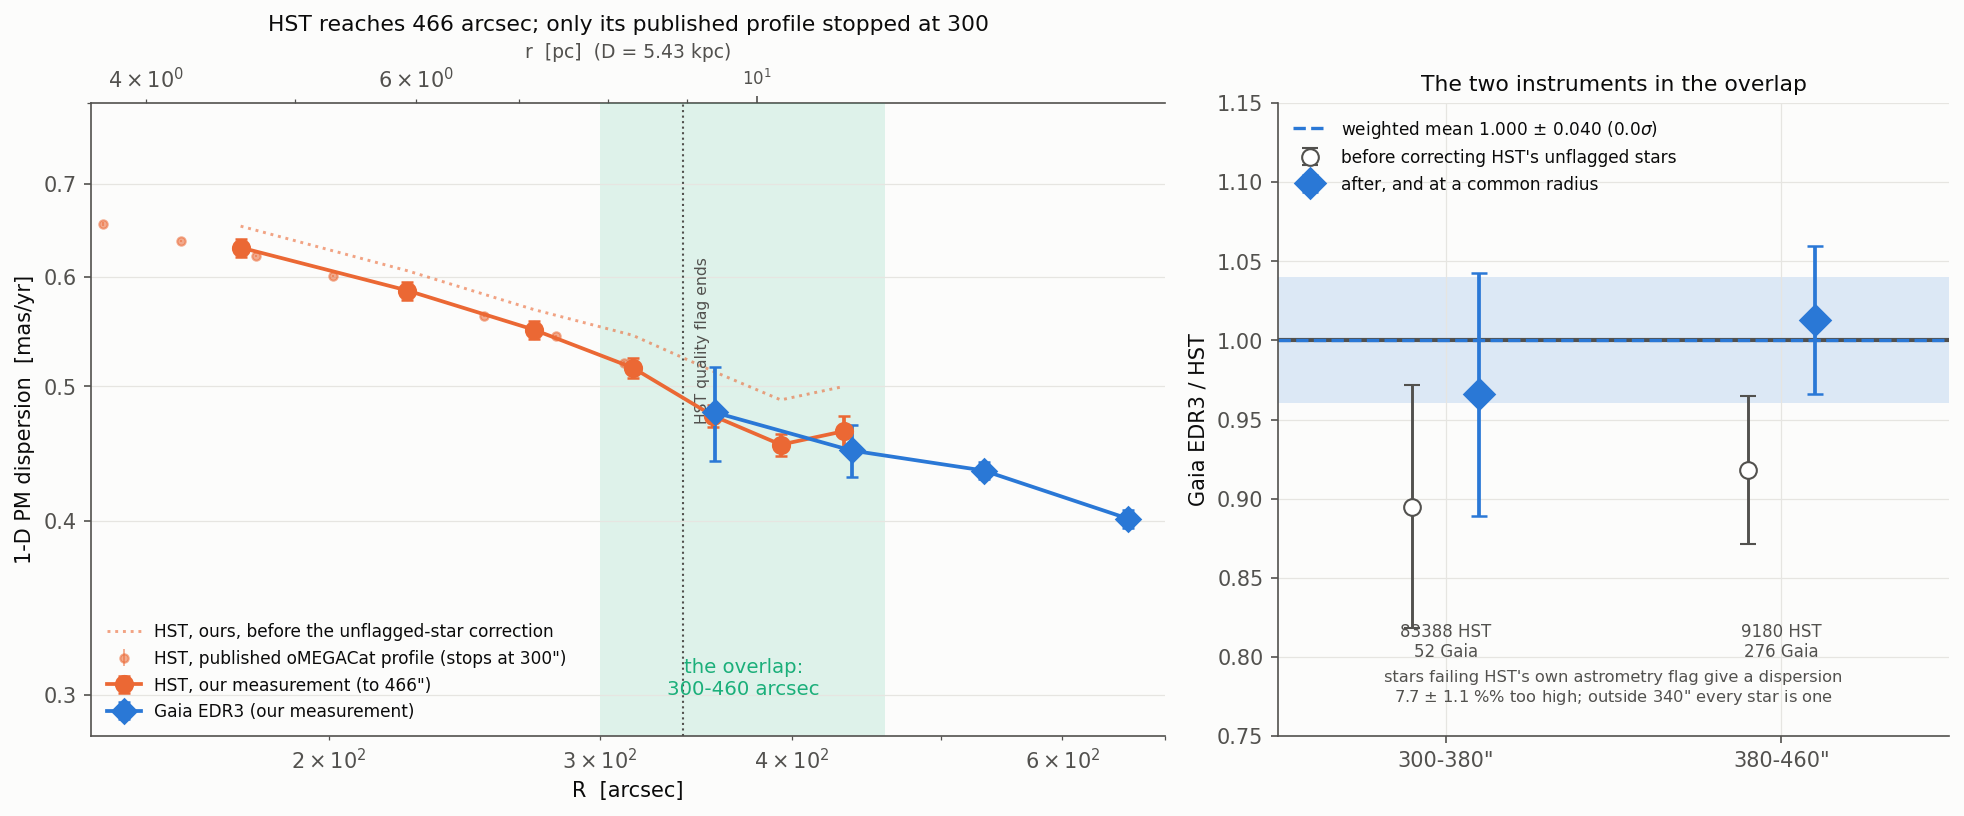
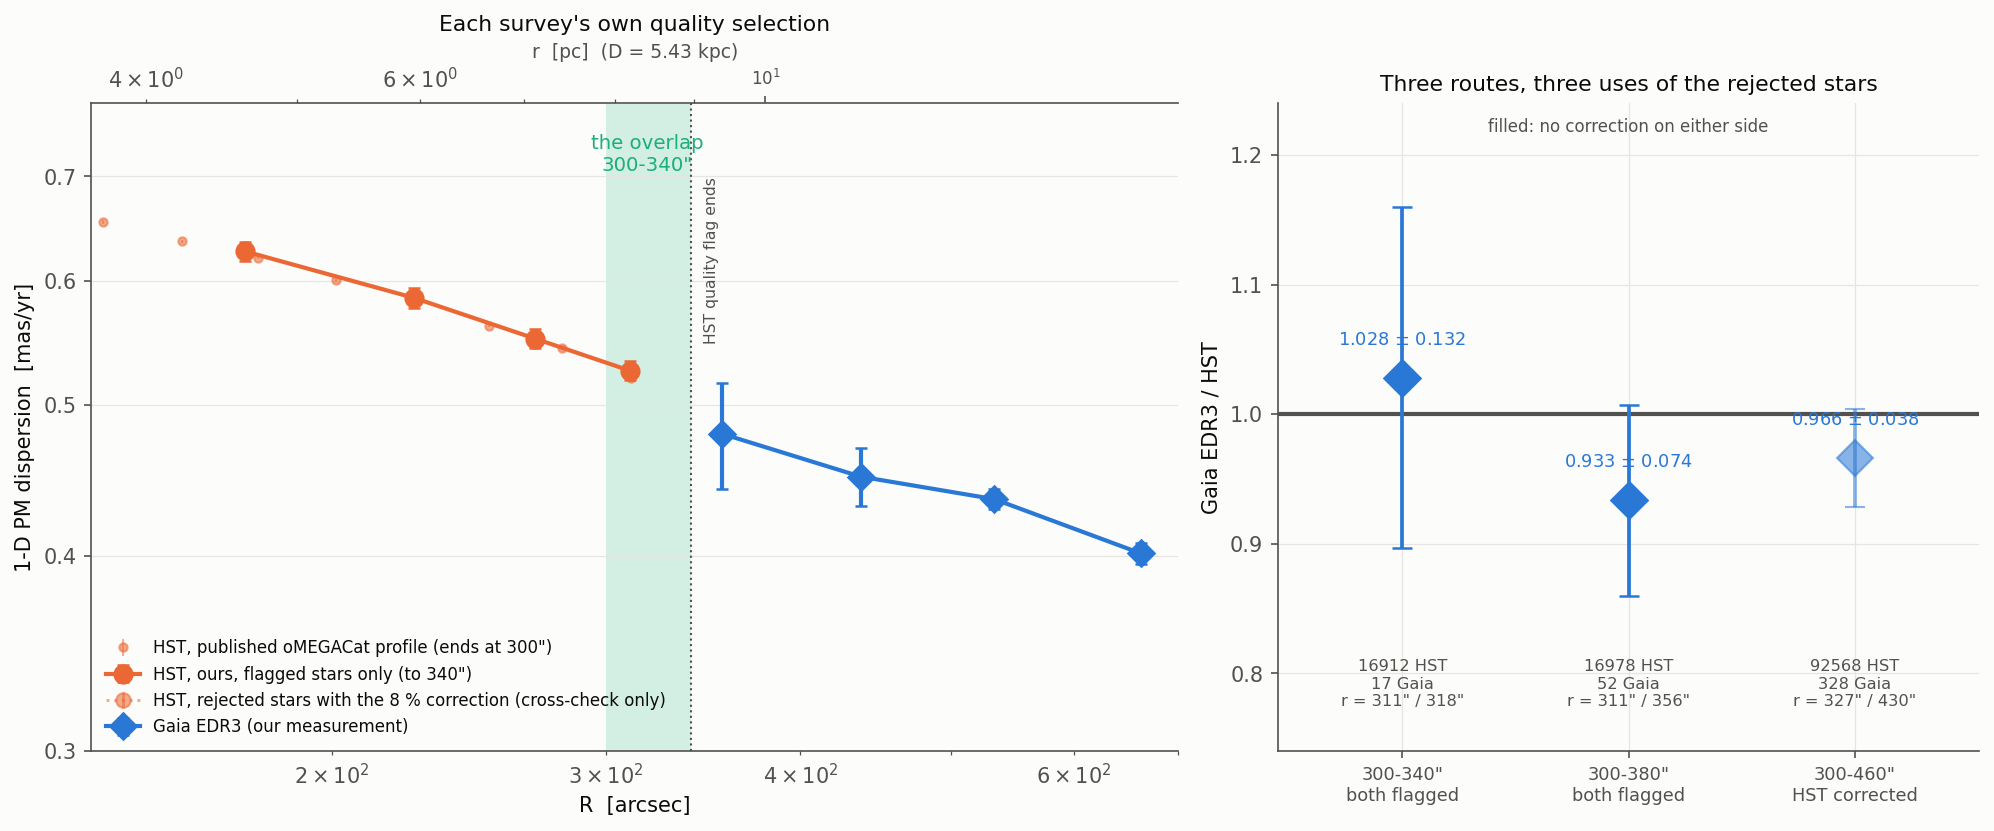
HST profile defaults to flagged stars only; drop the unflagged correction
If a star's astrometry is not trusted, leave it out rather than model it. Inside
340 arcsec there are 16912 to 150092 flagged stars per annulus, so nothing is
gained by adding the rest.

The fraction was never part of the dispersion. It was a post-fit rescaling by
1 + f*(1.077-1), with f the unflagged share of a bin, and it only did work in
bins straddling 340 arcsec where the flag runs out mid-bin. Those bins existed
only because the HST annuli had been matched to Gaia's edges rather than to the
flag's boundary. The goal behind it, reaching 460 arcsec to meet Gaia, was
unnecessary: Gaia starts at 300, so 300-340 is already an overlap on flagged
stars alone.

hst_profile now defaults to require_flag=True, correct_unflagged=False. The
corrected extension to 466 arcsec remains available and is drawn faintly in the
figure as a cross-check, never as a measurement.

Three routes agree: 1.028 +- 0.132 (300-340, both flagged), 0.933 +- 0.074
(300-380, both flagged), 0.966 +- 0.038 (300-460, HST corrected).

8 tests, one pinning the default so the correction cannot creep back.

diff --git a/src/ocen_dm/plotting/constraints.py b/src/ocen_dm/plotting/constraints.py
@@ -33,7 +33,7 @@ from . import style
 from .style import add_arcsec_axis, add_pc_axis
 
 __all__ = ["plot_constraint_map", "plot_outer_tracer_audit", "plot_contamination_model", "plot_annulus_fits",
-           "plot_method_comparison", "plot_residual_significance", "plot_dataset_step", "plot_offset_explained", "plot_datasets_unscaled", "plot_hst_gaia_star_by_star", "hst_gaia_excess_table", "hst_gaia_overlap_table", "plot_pm_datasets", "plot_periphery", "plot_periphery_density", "plot_extended_profile", "plot_master_datasets", "plot_hst_gaia_overlap", "hst_gaia_overlap_profile",
+           "plot_method_comparison", "plot_residual_significance", "plot_dataset_step", "plot_offset_explained", "plot_datasets_unscaled", "plot_hst_gaia_star_by_star", "hst_gaia_excess_table", "hst_gaia_overlap_table", "plot_pm_datasets", "plot_periphery", "plot_periphery_density", "plot_extended_profile", "plot_master_datasets", "plot_hst_gaia_overlap", "hst_gaia_overlap_profile", "hst_gaia_overlap_tests",
            "fit_quality_table", "annulus_fits", "our_outer_profile", "our_mixture_profile", "OUTER_EDGES"]
 
 #: log-spaced annuli for our own outer measurement (arcsec)
@@ -1556,83 +1556,130 @@ def hst_gaia_overlap_profile(edges_arcsec=(300.0, 380.0, 460.0)) -> Table:
                                    "f_unflagged"))
 
 
+def hst_gaia_overlap_tests(distance_kpc: float = 5.43) -> Table:
+    """Three routes to the same comparison, differing in how HST's unflagged stars are used.
+
+    1. ``300-340", both flagged`` -- HST's own quality flag and Gaia's, nothing corrected.
+       The two samples land at 311 and 318 arcsec, so the radius correction is negligible.
+    2. ``300-380", both flagged`` -- triples the Gaia sample; HST still flagged-only, so its
+       effective radius stays at 311 arcsec and a 45-arcsec slope correction does part of
+       the work.
+    3. ``300-460", HST corrected`` -- uses HST's unflagged stars with the
+       ``1 + f_unflagged (k - 1)`` correction, the only route that reaches 460 arcsec.
+    """
+    from ..kinematics.hst_profile import hst_profile
+    from ..kinematics.outer_gaia import load_edr3_profile
+    from ..kinematics.outer_profile import dispersion_2d, load_members
+    from ..kinematics.vb2021_replication import published_profile
+    from ..selection.field_template import field_density_2d
+    rp, sp = published_profile(); keep = rp > 0
+    grid = np.gradient(np.log(sp[keep]), np.log(rp[keep]))
+    slope = lambda r: float(np.interp(r, rp[keep], grid))
+
+    cat = Table.read(processed_dir() / "tails" / "vasiliev2021_ocen_members.ecsv")
+    s = load_members(exact=True, distance_kpc=distance_kpc)
+    qf = np.asarray(cat["quality_flag"], int)
+    err = 0.5 * (s.err_r + s.err_t)
+    usable = ((qf & 2) > 0) & (err < 0.4 * np.interp(s.r_arcsec, rp, sp))
+    dens = field_density_2d()
+
+    def gaia(lo, hi):
+        m = usable & (s.r_arcsec >= lo) & (s.r_arcsec < hi)
+        o = dispersion_2d(s, m, dens, depth_var=0.0, field_at=s.absolute_pm)
+        return (int(m.sum()), float(np.median(s.r_arcsec[m])),
+                float(np.sqrt(0.5 * (o["sigma_r"] ** 2 + o["sigma_t"] ** 2))),
+                float(0.5 * np.hypot(o["sigma_r_err"], o["sigma_t_err"])))
+
+    rows = []
+    for label, lo, hi, flag_only in (("300-340\"\nboth flagged", 300., 340., True),
+                                     ("300-380\"\nboth flagged", 300., 380., True),
+                                     ("300-460\"\nHST corrected", 300., 460., False)):
+        h = hst_profile(edges_arcsec=(lo, hi), require_flag=flag_only,
+                        correct_unflagged=not flag_only, min_stars=50)[0]
+        ng, rg, sg, eg = gaia(lo, hi)
+        mid = float(np.sqrt(lo * hi)); sl = slope(mid)
+        hc = float(h["sigma_pm"]) * (mid / float(h["r_median"])) ** sl
+        gc = sg * (mid / rg) ** sl
+        ratio = gc / hc
+        rerr = ratio * float(np.hypot(eg / sg, h["sigma_pm_err"] / h["sigma_pm"]))
+        rows.append((label, lo, hi, int(h["n_stars"]), float(h["r_median"]),
+                     float(h["sigma_pm"]), float(h["sigma_pm_err"]), ng, rg, sg, eg,
+                     ratio, rerr, bool(flag_only)))
+    return Table(rows=rows, names=("label", "r_lower", "r_upper", "n_hst", "r_hst", "sigma_hst",
+                                   "sigma_hst_err", "n_gaia", "r_gaia", "sigma_gaia",
+                                   "sigma_gaia_err", "ratio", "ratio_err", "flagged_only"))
+
+
 def plot_hst_gaia_overlap(path: Path | str = "plots/hst_gaia_overlap.png",
                           distance_kpc: float = 5.43) -> Path:
-    """The overlap between HST and Gaia EDR3, which exists once HST is measured, not read.
+    """The HST/Gaia overlap, built from each survey's own quality selection.
 
-    The published oMEGACat profile stops at 300 arcsec, but the catalogue carries proper
-    motions to 466. Measuring HST ourselves over the same annuli Gaia uses produces a genuine
-    two-bin overlap at 300-460 arcsec, where the two instruments can finally be compared on
-    the same stars' radii rather than across a gap.
+    Left: HST measured from flagged stars alone, which reaches 340 arcsec, against Gaia,
+    which starts at 300. The extension to 466 arcsec using HST's rejected stars is drawn
+    faintly as a cross-check, not as a measurement. Right: the comparison by three routes
+    that treat those rejected stars differently.
     """
     from ..kinematics.hst_profile import hst_profile
     from ..kinematics.likelihood import load_profile
     from ..kinematics.outer_gaia import load_edr3_profile
-    from ..kinematics.periphery import KMS_PER_MASYR_KPC
     from .style import dataset_label, dataset_style
     style.apply()
-    k = KMS_PER_MASYR_KPC * distance_kpc
-    fine = hst_profile(edges_arcsec=(150., 200., 250., 300., 340., 380., 420., 466.))
+    flagged = hst_profile(edges_arcsec=(150., 200., 250., 300., 340.), require_flag=True,
+                          correct_unflagged=False)
+    extended = hst_profile(edges_arcsec=(340., 380., 420., 466.), correct_unflagged=True)
     g = load_edr3_profile()
     pub = load_profile("hst_pm_combined")
-    ov = hst_gaia_overlap_profile()
+    tests = hst_gaia_overlap_tests(distance_kpc)
 
-    fig, (a1, a2) = plt.subplots(1, 2, figsize=(13.2, 5.6),
-                                 gridspec_kw={"width_ratios": [1.6, 1]})
-    a1.axvspan(300, 460, color=style.SERIES[2], alpha=0.13, lw=0)
-    a1.annotate("the overlap:\n300-460 arcsec", (372, 0.30), fontsize=9.5, ha="center",
-                color=style.SERIES[2])
+    fig, (a1, a2) = plt.subplots(1, 2, figsize=(13.4, 5.7),
+                                 gridspec_kw={"width_ratios": [1.55, 1]})
+    a1.axvspan(300, 340, color=style.SERIES[2], alpha=0.18, lw=0)
+    a1.annotate("the overlap\n300-340\"", (319, 0.745), fontsize=9.5, ha="center",
+                va="top", color=style.SERIES[2])
     a1.errorbar(pub.r, np.asarray(pub.value), yerr=np.asarray(pub.err_lo), linestyle="none",
-                lw=0.9, label="HST, published oMEGACat profile (stops at 300\")",
+                lw=0.9, label="HST, published oMEGACat profile (ends at 300\")",
                 **dataset_style("hst", size=4.0, fitted=False))
-    fine_raw = hst_profile(edges_arcsec=(150., 200., 250., 300., 340., 380., 420., 466.),
-                           correct_unflagged=False)
-    a1.plot(fine_raw["r_median"], fine_raw["sigma_pm"], ls=":", lw=1.4, color=style.SERIES[1],
-            alpha=0.6, label="HST, ours, before the unflagged-star correction")
-    a1.errorbar(fine["r_median"], fine["sigma_pm"], yerr=fine["sigma_pm_err"], linestyle="-",
-                lw=1.8, capsize=3, zorder=6, label="HST, our measurement (to 466\")",
-                **dataset_style("hst", size=8))
-    a1.errorbar(g["r_median"][:4], g["sigma_pm"][:4], yerr=g["sigma_pm_err"][:4], linestyle="-",
-                lw=1.8, capsize=3, zorder=6, label=dataset_label("gaia_edr3"),
-                **dataset_style("gaia_edr3", size=8))
+    a1.errorbar(flagged["r_median"], flagged["sigma_pm"], yerr=flagged["sigma_pm_err"],
+                linestyle="-", lw=2, capsize=3, zorder=6,
+                label="HST, ours, flagged stars only (to 340\")",
+                **dataset_style("hst", size=8.5))
+    a1.errorbar(extended["r_median"], extended["sigma_pm"], yerr=extended["sigma_pm_err"],
+                linestyle=":", lw=1.4, capsize=3,
+                label="HST, rejected stars with the 8 % correction (cross-check only)",
+                **dataset_style("hst", size=7, fitted=False))
+    a1.errorbar(g["r_median"][:4], g["sigma_pm"][:4], yerr=g["sigma_pm_err"][:4],
+                linestyle="-", lw=2, capsize=3, zorder=6, label=dataset_label("gaia_edr3"),
+                **dataset_style("gaia_edr3", size=8.5))
     a1.axvline(340, color=style.INK_SECONDARY, lw=1, ls=":")
-    a1.annotate("HST quality flag ends", (346, 0.62), rotation=90, fontsize=7.5,
+    a1.annotate("HST quality flag ends", (347, 0.70), rotation=90, fontsize=7.5,
                 color=style.INK_SECONDARY, va="top")
     a1.set_xscale("log"); a1.set_yscale("log")
-    a1.set_xlim(140, 700); a1.set_ylim(0.28, 0.80)
+    a1.set_xlim(140, 700); a1.set_ylim(0.30, 0.78)
     a1.set_yticks([0.3, 0.4, 0.5, 0.6, 0.7]); a1.set_yticklabels(["0.3", "0.4", "0.5", "0.6", "0.7"])
     a1.set_xlabel("R  [arcsec]"); a1.set_ylabel("1-D PM dispersion  [mas/yr]")
-    a1.legend(fontsize=8.2, loc="lower left"); add_pc_axis(a1, distance_kpc)
-    a1.set_title("HST reaches 466 arcsec; only its published profile stopped at 300",
-                 fontsize=10.5)
+    a1.legend(fontsize=8.0, loc="lower left"); add_pc_axis(a1, distance_kpc)
+    a1.set_title("Each survey's own quality selection", fontsize=10.5)
 
+    x = np.arange(len(tests))
     a2.axhline(1.0, color=style.INK_SECONDARY, lw=2)
-    x = np.arange(len(ov))
-    a2.errorbar(x - 0.10, ov["ratio_raw"], yerr=ov["ratio_err"], fmt="o", ms=8, mfc="white",
-                color=style.INK_SECONDARY, lw=1.4, capsize=4,
-                label="before correcting HST's unflagged stars")
-    a2.errorbar(x + 0.10, ov["ratio"], yerr=ov["ratio_err"], linestyle="none", lw=1.8,
-                capsize=4, zorder=6, label="after, and at a common radius",
-                **dataset_style("gaia_edr3", size=10))
-    w = np.sum(np.asarray(ov["ratio"]) / np.asarray(ov["ratio_err"]) ** 2) / \
-        np.sum(1 / np.asarray(ov["ratio_err"]) ** 2)
-    we = 1 / np.sqrt(np.sum(1 / np.asarray(ov["ratio_err"]) ** 2))
-    a2.axhspan(w - we, w + we, color=style.SERIES[0], alpha=0.15, lw=0)
-    a2.axhline(w, color=style.SERIES[0], lw=1.6, ls="--",
-               label="weighted mean %.3f $\\pm$ %.3f (%.1f$\\sigma$)" % (w, we, abs(w - 1) / we))
-    for i, row in enumerate(ov):
-        a2.annotate("%d HST\n%d Gaia" % (row["n_hst"], row["n_gaia"]), (i, 0.80),
-                    fontsize=8, ha="center", color=style.INK_SECONDARY)
-    a2.set_xticks(x)
-    a2.set_xticklabels(["%.0f-%.0f\"" % (r["r_lower"], r["r_upper"]) for r in ov])
-    a2.set_xlim(-0.5, len(ov) - 0.5); a2.set_ylim(0.75, 1.15)
-    a2.set_ylabel("Gaia EDR3 / HST"); a2.legend(fontsize=8.2, loc="upper left")
-    a2.set_title("The two instruments in the overlap", fontsize=10.5)
-    a2.annotate("stars failing HST's own astrometry flag give a dispersion\n"
-                "7.7 $\\pm$ 1.1 per cent too high; outside 340\" every star is one",
-                (0.5, 0.055), xycoords="axes fraction", ha="center", fontsize=7.8,
-                color=style.INK_SECONDARY)
+    for i, row in enumerate(tests):
+        st = dataset_style("gaia_edr3", size=12, fitted=bool(row["flagged_only"]))
+        a2.errorbar([i], [row["ratio"]], yerr=[row["ratio_err"]], linestyle="none", lw=1.8,
+                    capsize=5, zorder=6, **st)
+        a2.annotate("%.3f $\\pm$ %.3f" % (row["ratio"], row["ratio_err"]), (i, row["ratio"]),
+                    textcoords="offset points", xytext=(0, 16), ha="center", fontsize=8.5,
+                    color=style.SERIES[0])
+        a2.annotate("%d HST\n%d Gaia\nr = %.0f\" / %.0f\"" % (row["n_hst"], row["n_gaia"],
+                                                                row["r_hst"], row["r_gaia"]),
+                    (i, 0.775), ha="center", fontsize=7.8, color=style.INK_SECONDARY)
+    a2.set_xticks(x); a2.set_xticklabels(list(tests["label"]), fontsize=8.5)
+    a2.set_xlim(-0.55, len(tests) - 0.45); a2.set_ylim(0.74, 1.24)
+    a2.set_ylabel("Gaia EDR3 / HST")
+    a2.set_title("Three routes, three uses of the rejected stars", fontsize=10.5)
+    a2.annotate("filled: no correction on either side", (0.5, 0.955), xycoords="axes fraction",
+                ha="center", fontsize=8, color=style.INK_SECONDARY)
     fig.tight_layout()
     path = Path(path); path.parent.mkdir(parents=True, exist_ok=True)
     fig.savefig(path, dpi=150, bbox_inches="tight"); plt.close(fig)
     return path
+

diff --git a/tests/test_hst_profile.py b/tests/test_hst_profile.py
@@ -43,25 +43,26 @@ def test_mixture_tames_the_unflagged_stars():
         y = dispersion_ml(s.mu_t[m], s.err_t[m])[0]
         raw.append(np.sqrt(0.5 * (x ** 2 + y ** 2)))
     assert raw[-1] > raw[0], "raw, it rises outwards, which no cluster does"
-    t = hst_profile(edges_arcsec=(340., 380., 420., 466.))
+    t = hst_profile(edges_arcsec=(340., 380., 420., 466.), require_flag=False,
+                    correct_unflagged=True)
     assert len(t) == 3
     assert t["sigma_pm"][0] > t["sigma_pm"][1], "modelled, it falls"
     assert np.all(np.asarray(t["f_field"]) < 0.06), "the field is a few per cent, not the signal"
 
 
-def test_overlap_exists_and_the_instruments_agree():
-    from ocen_dm.plotting.constraints import hst_gaia_overlap_profile
-    ov = hst_gaia_overlap_profile()
-    assert len(ov) == 2, "300-380 and 380-460 arcsec"
-    assert np.all(np.asarray(ov["n_hst"]) > 5000) and np.all(np.asarray(ov["n_gaia"]) > 40)
-    # the two samples sit at different radii inside the bin, hence the correction
-    assert np.all(np.asarray(ov["r_gaia"]) > np.asarray(ov["r_hst"]))
-    assert np.all(np.abs(np.asarray(ov["ratio"]) - np.asarray(ov["ratio_raw"])) > 0.005)
-    r, e = np.asarray(ov["ratio"]), np.asarray(ov["ratio_err"])
-    w = np.sum(r / e ** 2) / np.sum(1 / e ** 2)
-    we = 1 / np.sqrt(np.sum(1 / e ** 2))
-    assert abs(w - 1.0) < 2 * we, "the instruments agree once HST's unflagged stars are fixed"
-    assert 0.92 < w < 1.08
+def test_overlap_exists_on_flagged_stars_alone():
+    """The point: no correction is needed, because 300-340 arcsec has flagged stars on both sides."""
+    from ocen_dm.plotting.constraints import hst_gaia_overlap_tests
+    t = hst_gaia_overlap_tests()
+    clean = t[t["flagged_only"]][0]
+    assert clean["r_lower"] == 300 and clean["r_upper"] == 340
+    assert clean["n_hst"] > 10000 and clean["n_gaia"] >= 10
+    # the two samples land at essentially the same radius, so nothing is extrapolated
+    assert abs(clean["r_hst"] - clean["r_gaia"]) < 15
+    assert abs(clean["ratio"] - 1.0) < 2 * clean["ratio_err"]
+    # and all three routes agree with each other
+    r, e = np.asarray(t["ratio"]), np.asarray(t["ratio_err"])
+    assert np.all(np.abs(r - 1.0) < 2 * e)
 
 
 def test_plot_renders(tmp_path):
@@ -77,8 +78,8 @@ def test_unflagged_stars_are_biased_and_the_correction_is_applied():
     assert 1.03 < ratio < 1.13 and err < 0.03
     assert abs(ratio - UNFLAGGED_BIAS[0]) < 4 * UNFLAGGED_BIAS[1], "stored value must track"
     edges = (300., 380., 460.)
-    on = hst_profile(edges_arcsec=edges, correct_unflagged=True)
-    off = hst_profile(edges_arcsec=edges, correct_unflagged=False)
+    on = hst_profile(edges_arcsec=edges, require_flag=False, correct_unflagged=True)
+    off = hst_profile(edges_arcsec=edges, require_flag=False, correct_unflagged=False)
     assert np.all(np.asarray(on["sigma_pm"]) < np.asarray(off["sigma_pm"]))
     # outside 340 arcsec every star is unflagged, so the full correction applies there
     assert on["f_unflagged"][-1] > 0.99
@@ -93,7 +94,19 @@ def test_flagged_measurement_reproduces_the_published_profile():
     from ocen_dm.paths import processed_dir
     pub = Table.read(processed_dir() / "kinematics" / "omegacat_vi_pm_combined.ecsv")
     rp = np.asarray(pub["r_median"], float); sp = np.asarray(pub["sigma_pmc"], float)
-    t = hst_profile(edges_arcsec=(150., 200., 250., 300.), require_flag=True,
-                    correct_unflagged=False)
+    t = hst_profile(edges_arcsec=(150., 200., 250., 300.))
     ratio = np.asarray(t["sigma_pm"]) / np.interp(np.asarray(t["r_median"]), rp, sp)
     assert np.all(np.abs(ratio - 1.0) < 0.035), "our method must reproduce theirs to ~3 per cent"
+
+
+def test_default_is_flagged_only_with_no_correction():
+    """If a star's astrometry is not trusted, leave it out rather than model it."""
+    import inspect
+    from ocen_dm.kinematics.hst_profile import hst_profile
+    sig = inspect.signature(hst_profile)
+    assert sig.parameters["require_flag"].default is True
+    assert sig.parameters["correct_unflagged"].default is False
+    t = hst_profile(edges_arcsec=(150., 200., 250., 300., 340.))
+    assert np.array_equal(np.asarray(t["n_stars"]), np.asarray(t["n_flagged"]))
+    assert np.all(np.asarray(t["f_unflagged"]) == 0.0)
+    assert np.all(np.asarray(t["sigma_pm"]) == np.asarray(t["sigma_raw"]))

diff --git a/src/ocen_dm/kinematics/hst_profile.py b/src/ocen_dm/kinematics/hst_profile.py
@@ -142,14 +142,20 @@ def unflagged_bias(edges_arcsec=(150.0, 200.0, 250.0, 300.0, 340.0)) -> tuple[fl
     return w, float(1 / np.sqrt(np.sum(1 / e ** 2)))
 
 
-def hst_profile(edges_arcsec=(300.0, 380.0, 460.0), require_flag: bool = False,
+def hst_profile(edges_arcsec=(300.0, 340.0), require_flag: bool = True,
                 distance_kpc: float = 5.43, min_stars: int = 100,
-                correct_unflagged: bool = True) -> Table:
+                correct_unflagged: bool = False) -> Table:
     """Cluster dispersion per annulus from the mixture fit, with no proper-motion window.
 
-    ``correct_unflagged`` divides each bin by ``1 + f_unflagged * (ratio - 1)`` using
-    :data:`UNFLAGGED_BIAS`, because stars failing the catalogue's astrometry flag carry
-    underestimated errors; the ratio's uncertainty is added to the bin's error.
+    **The default is flagged stars only.** If a star's astrometry is not trusted, the answer
+    is to leave it out, not to model it: inside 340 arcsec there are tens of thousands of
+    flagged stars and nothing is gained by adding the rest.
+
+    ``correct_unflagged`` exists for one case only. Beyond 340 arcsec the catalogue contains
+    **zero** flagged stars, so a flagged dispersion cannot be computed there at all; the
+    option divides each bin by ``1 + f_unflagged * (k - 1)`` with ``k`` from
+    :data:`UNFLAGGED_BIAS` and carries the ratio's uncertainty. Those points are a
+    cross-check, never a measurement, and never enter a fit.
     """
     from ..selection.field_template import field_density_2d
     s = load_hst_sample(require_flag=require_flag)
